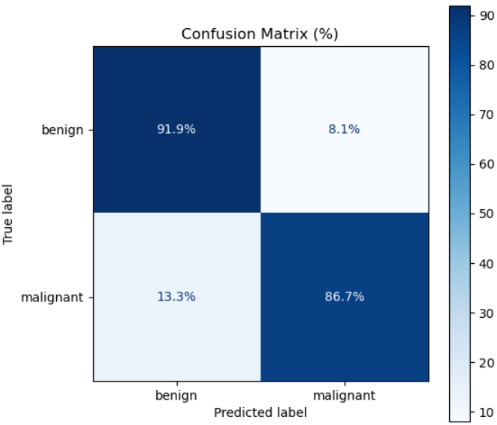
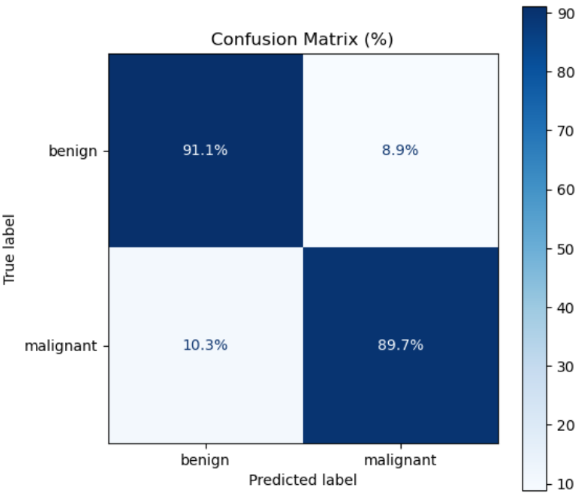
readme

diff --git a/README.md b/README.md
@@ -7,8 +7,8 @@ La précision du modèle est d'environ 90%.
 
 ![Matrice de confusion](assets/matrix-confusion.png)
 
-13% de faux négatif
-8% de faux positif
+10% de faux négatifs.
+9% de faux positifs.
 
 ## Fonctionnalités
 
